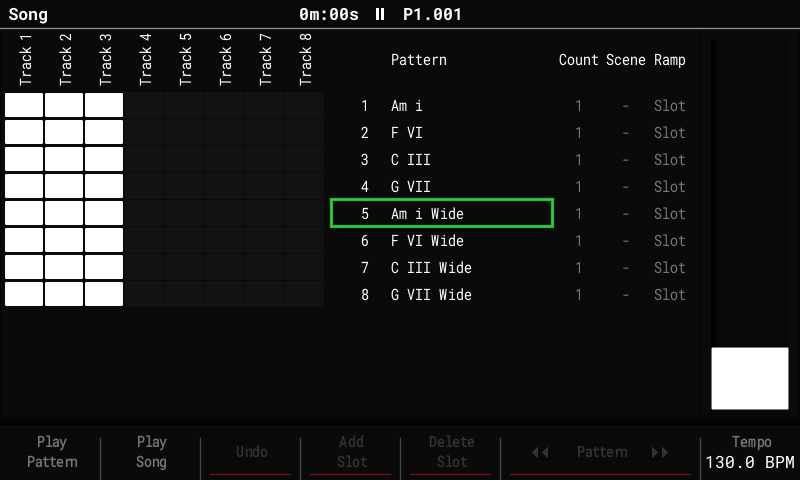
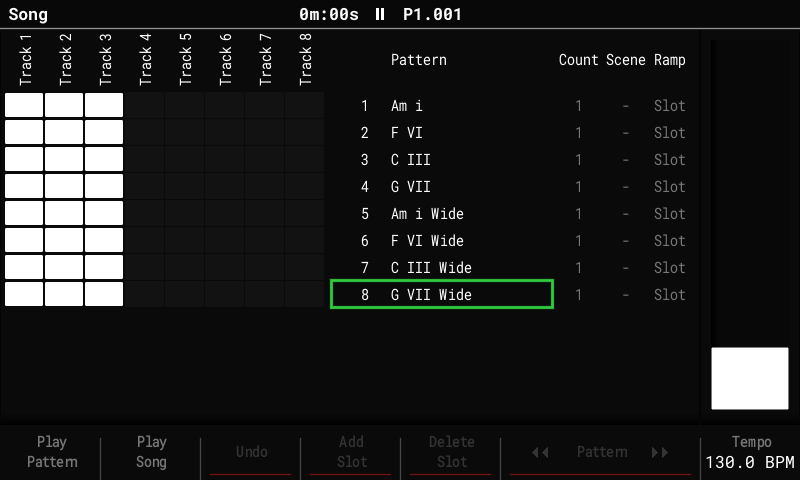
Progressions: F5 Insert Pattern, the progression as one pattern (#123)
In the Progression list, F5 adds one slot playing one pattern named after
its chords ("Am F C G"), a chord on the first step of each bar (the
metronome's bar), to loop or resample and slice. A triad after a 7th stops
the 7th's fourth track. The same progression and voicing reuse their
pattern. F8 / Insert still add a slot per chord; their chord patterns no
longer match an Insert Pattern name ("Am F C G" is not an Am pattern).

Changed region(s): [[0.4062, 0.4062, 0.7188, 0.5], [0.4062, 0.5625, 0.6875, 0.6562], [0.6875, 0.5938, 0.7188, 0.625]]

diff --git a/src/core/app/song_progression.cpp b/src/core/app/song_progression.cpp
@@ -15,11 +15,46 @@ namespace {
 bool nameIsChord(const char* name, const char* chord, uint8_t voicing) {
     const size_t n = std::strlen(chord);
     if (std::strncmp(name, chord, n) != 0 || (name[n] != 0 && name[n] != ' ')) return false;
+    // [I] #123 the next word is a numeral ("F VI") or the voicing's, never
+    // another chord: "Am F C G" (Insert Pattern) is no Am pattern.
+    if (name[n] == ' ') {
+        const char* w = name + n + 1;
+        const char* e = std::strchr(w, ' ');
+        const size_t wl = e ? size_t(e - w) : std::strlen(w);
+        bool voicingWord = false;
+        for (uint8_t v = 1; v < prog::kVoicingCount; ++v) {
+            const char* vw = prog::voicingWord(v);
+            voicingWord = voicingWord || (std::strlen(vw) == wl && std::strncmp(w, vw, wl) == 0);
+        }
+        const char c = w[0] == 'b' || w[0] == '#' ? w[1] : w[0];
+        if (!voicingWord && c != 'i' && c != 'v' && c != 'I' && c != 'V') return false;
+    }
     const char* last = std::strrchr(name, ' ');
     last = last && last >= name + n ? last + 1 : "";
     for (uint8_t v = 1; v < prog::kVoicingCount; ++v)
         if (std::strcmp(last, prog::voicingWord(v)) == 0) return v == voicing;
     return voicing == prog::kSmooth;
+}
+
+// Slots first.. play num[0..n) (the slot at `first` itself when `replace`);
+// the song after them moves down.
+void placeSlots(Project& pr, int len, int first, bool replace, const uint8_t* num, int n) {
+    const int shift = n - (replace ? 1 : 0);
+    for (int s = len - 1; s >= first + (replace ? 1 : 0); --s) {
+        const int d = s + shift;
+        pr.playlist[d] = pr.playlist[s];
+        pr.playlistCount[d] = pr.playlistCount[s];
+        pr.playlistScene[d] = pr.playlistScene[s];
+        pr.playlistSceneTo[d] = pr.playlistSceneTo[s];
+        pr.playlistRamp[d] = pr.playlistRamp[s];
+    }
+    for (int i = 0; i < n; ++i) {
+        pr.playlist[first + i] = num[i];
+        pr.playlistCount[first + i] = 0;
+        pr.playlistScene[first + i] = 0;
+        pr.playlistSceneTo[first + i] = 0;
+        pr.playlistRamp[first + i] = 0;
+    }
 }
 }  // namespace
 
@@ -113,23 +148,88 @@ int App::insertProgression(const prog::Progression& p, int after, const char** w
         if (n == patternNumber()) reloadCurrentFromStore();
     }
     markNamesDirty();
-    // The slots: the song after `first` moves down by the progression.
-    const int shift = p.count - (replace ? 1 : 0);
-    for (int s = len - 1; s >= first + (replace ? 1 : 0); --s) {
-        const int d = s + shift;
-        pr.playlist[d] = pr.playlist[s];
-        pr.playlistCount[d] = pr.playlistCount[s];
-        pr.playlistScene[d] = pr.playlistScene[s];
-        pr.playlistSceneTo[d] = pr.playlistSceneTo[s];
-        pr.playlistRamp[d] = pr.playlistRamp[s];
+    placeSlots(pr, len, first, replace, num, p.count);
+    markProjectDirty();
+    return first;
+}
+
+
+// [I] #123 Into: Pattern - the whole progression in one pattern, a chord per
+// bar, to play as a loop or resample and slice (Slices: Step hits).
+int App::insertProgressionPattern(const prog::Progression& p, int after, const char** why, uint8_t voicing) {
+    static const char* sink;
+    if (!why) why = &sink;
+    *why = nullptr;
+    if (p.count == 0) return -1;
+    commitCurrentPattern();
+    Project& pr = project;
+    int len = 0;
+    while (len < kSongSlots && pr.playlist[len]) ++len;
+    if (len == 0) pr.playlist[len++] = 1;
+    after = after < 0 ? 0 : after >= len ? len - 1 : after;
+    const int src = pr.playlist[after];
+    const bool replace = !patternHasData(src) && !names.get(src)[0];
+    const int first = replace ? after : after + 1;
+    if (!replace && len + 1 > kSongSlots) {
+        *why = "Song is full";
+        return -1;
     }
+    uint8_t scale = pr.u8(pf::kScale);
+    if (scale >= kScaleCount) scale = 0;
+    const prog::Tonic tonic = prog::tonic(p, pr.u8(pf::kRootNote), scale);
+    // The name: the chords, then the voicing's word ("Am F C G Wide").
+    char label[PatternNames::kMaxLen + 1];
+    int o = 0;
     for (int i = 0; i < p.count; ++i) {
-        pr.playlist[first + i] = num[i];
-        pr.playlistCount[first + i] = 0;
-        pr.playlistScene[first + i] = 0;
-        pr.playlistSceneTo[first + i] = 0;
-        pr.playlistRamp[first + i] = 0;
+        char c[16];
+        prog::chordName(p, i, tonic, c, sizeof(c));
+        o += std::snprintf(label + o, sizeof(label) - size_t(o), "%s%s", i ? " " : "", c);
+        if (o >= int(sizeof(label))) o = int(sizeof(label)) - 1;
     }
+    const char* word = prog::voicingWord(voicing);
+    if (word[0]) std::snprintf(label + o, sizeof(label) - size_t(o), " %s", word);
+    // The same progression and voicing made before: its pattern again.
+    uint8_t num = 0;
+    for (int n = 1; n <= kPatternCount && !num; ++n)
+        if (std::strcmp(names.get(n), label) == 0) num = uint8_t(n);
+    if (!num) {
+        for (int n = 1; n <= kPatternCount && !num; ++n) {
+            if (patternHasData(n) || names.get(n)[0]) continue;
+            bool used = false;
+            for (int s = 0; s < len && !used; ++s) used = pr.playlist[s] == n && !(replace && s == after);
+            if (!used) num = uint8_t(n);
+        }
+        if (!num) {
+            *why = "No empty patterns";
+            return -1;
+        }
+        // A bar per chord (the metronome's), halved until the pattern fits.
+        int bar = resampleBarSteps();
+        while (bar > 1 && bar * p.count > kStepCount) bar /= 2;
+        defaultStored(num);
+        PatternStock& st = storedStock(num);
+        for (int t = 0; t < kStockTrackCount; ++t) st.tracks[t].lastStep = uint8_t(bar * p.count - 1);
+        const uint8_t ins = currentInstrument();
+        int prev[prog::kMaxVoiced], prevCount = 0;
+        for (int i = 0; i < p.count; ++i) {
+            int notes[prog::kMaxVoiced];
+            const int k = prog::voice(p, i, tonic, voicing, prev, prevCount, notes);
+            for (int j = 0; j < k; ++j) {
+                Step& s = st.tracks[j].steps[i * bar];
+                s.note = int8_t(notes[j]);
+                s.instrument = pops::mapInstrument(j, ins);
+                prev[j] = notes[j];
+            }
+            // A track the chord before used and this one doesn't: stop it.
+            for (int j = k; j < prevCount && j < kStockTrackCount; ++j) st.tracks[j].steps[i * bar].note = kNoteOff;
+            prevCount = k;
+        }
+        markPatternDirty(num);
+        names.set(num, label);
+        markNamesDirty();
+        if (num == patternNumber()) reloadCurrentFromStore();
+    }
+    placeSlots(pr, len, first, replace, &num, 1);
     markProjectDirty();
     return first;
 }

diff --git a/tests/progression_test.cpp b/tests/progression_test.cpp
@@ -416,6 +416,53 @@ TEST(progression_insert_names_patterns) {
     CHECK_EQ(a.project.playlist[4], 3);
 }
 
+// [I] #123 Insert Pattern: the whole progression in one pattern, a chord per
+// bar, named after its chords.
+TEST(progression_insert_pattern) {
+    Harness h;
+    App& a = *h.app;
+    setKey(a, kRootA, kMinor);
+    a.setCurrentInstrument(0);
+    prog::Progression p;
+    CHECK(prog::parse("i VI III VII", p));
+    const char* why = nullptr;
+    // New project: the empty pattern 1 in slot 1 is filled.
+    CHECK_EQ(a.insertProgressionPattern(p, 0, &why), 0);
+    CHECK_EQ(a.project.playlist[0], 1);
+    CHECK_EQ(a.project.playlist[1], 0);
+    CHECK_STR(a.names.get(1), "Am F C G");
+    const PatternStock& st = a.storedStock(1);
+    for (int t = 0; t < kStockTrackCount; ++t) CHECK_EQ(int(st.tracks[t].lastStep), 63);   // 4 bars of 16
+    CHECK_EQ(st.tracks[0].steps[0].note, 57);   // Am: A4 C5 E5, as Insert's
+    CHECK_EQ(st.tracks[1].steps[0].note, 60);
+    CHECK_EQ(st.tracks[2].steps[0].note, 64);
+    CHECK_EQ(st.tracks[0].steps[0].instrument, 0);
+    for (int b = 1; b < 4; ++b)
+        for (int t = 0; t < 3; ++t) CHECK(st.tracks[t].steps[b * 16].note >= 0);
+    CHECK_EQ(st.tracks[0].steps[1].note, kNoteEmpty);   // held to the next bar
+    CHECK_EQ(st.tracks[3].steps[16].note, kNoteEmpty);
+    // The same progression again: the same pattern in a new slot.
+    CHECK_EQ(a.insertProgressionPattern(p, 0, &why), 1);
+    CHECK_EQ(a.project.playlist[1], 1);
+    CHECK(!a.patternHasData(2));
+    // Another voicing is another pattern.
+    CHECK_EQ(a.insertProgressionPattern(p, 1, &why, prog::kWide), 2);
+    CHECK_EQ(a.project.playlist[2], 2);
+    CHECK_STR(a.names.get(2), "Am F C G Wide");
+    // A triad after a 7th stops the 7th's fourth track.
+    CHECK(prog::parse("i7 VI", p));
+    CHECK_EQ(a.insertProgressionPattern(p, 2, &why), 3);
+    const int n = a.project.playlist[3];
+    CHECK_STR(a.names.get(n), "Am7 F");
+    CHECK(a.storedStock(n).tracks[3].steps[0].note >= 0);
+    CHECK_EQ(a.storedStock(n).tracks[3].steps[16].note, kNoteOff);
+    CHECK_EQ(int(a.storedStock(n).tracks[0].lastStep), 31);
+    // Eight chords fill the longest pattern.
+    CHECK(prog::parse("i VI III VII i VI III VII", p));
+    CHECK_EQ(a.insertProgressionPattern(p, 3, &why), 4);
+    CHECK_EQ(int(a.storedStock(a.project.playlist[4]).tracks[0].lastStep), 127);
+}
+
 TEST(progression_insert_refuses_when_full) {
     Harness h;
     App& a = *h.app;
@@ -570,6 +617,30 @@ TEST(progression_insert_voicing_names) {
     CHECK(a.storedStock(a.project.playlist[17]).tracks[4].steps[0].note >= 0);   // 5 tracks
     CHECK_EQ(a.insertProgression(p, 17, &why), 18);
     CHECK_EQ(a.project.playlist[18], 20);
+}
+
+// [I] #123 F5 Insert Pattern in the Progression list.
+TEST(progression_song_screen_insert_pattern) {
+    Harness h;
+    App& a = *h.app;
+    setKey(a, kRootA, kMinor);
+    h.tap(btn::Song);
+    SongScreen& s = song(h);
+    h.tap(btn::Rec);
+    h.tap(btn::Insert);
+    h.run(50);
+    CHECK(h.disp.lastHasText("Pattern"));
+    h.tap(btn::F5);
+    CHECK(!s.progOpen);
+    CHECK_EQ(a.project.playlist[0], 1);
+    CHECK_EQ(a.project.playlist[1], 0);
+    CHECK_STR(a.names.get(1), "Am F C G");
+    CHECK_EQ(s.cursor, 0);
+    // F8 still adds a slot per chord.
+    h.tap(btn::Insert);
+    h.tap(btn::F8);
+    CHECK_EQ(a.project.playlist[4], 5);
+    CHECK_STR(a.names.get(2), "Am i");
 }
 
 TEST(progression_song_screen_voicing_key) {

diff --git a/src/core/ui/screen_song.cpp b/src/core/ui/screen_song.cpp
@@ -228,6 +228,7 @@ void SongScreen::refreshBar() {
     BottomBar& b = ui_.bar;
     b.clear();
     if (progOpen) {   // [I] #121
+        b.set(4, "Insert", "Pattern");   // [I] #123 the progression as one pattern
         b.set(5, "Voicing", prog::voicingName(progVoicing));
         b.set(6, "Cancel", nullptr);
         b.set(7, "Insert", nullptr);
@@ -463,6 +464,7 @@ void SongScreen::onButton(uint8_t id, uint8_t state) {
         switch (id) {
             case btn::Up: progMove(-1); break;
             case btn::Down: progMove(1); break;
+            case btn::F5: insertSelectedProgression(true); break;
             case btn::F6: nextVoicing(); break;
             case btn::F8:
             case btn::Insert: insertSelectedProgression(); break;
@@ -786,21 +788,27 @@ void SongScreen::nextVoicing() {
     ui_.notify(t, 2500);
 }
 
-void SongScreen::insertSelectedProgression() {
+void SongScreen::insertSelectedProgression(bool asPattern) {
     if (progCursor < 0 || progCursor >= progRows || g_progRow[progCursor] < 0) return;
     prog::Progression p;
     if (!prog::parse(g_progs.line[g_progRow[progCursor]], p)) return;
     const char* why = nullptr;
-    const int first = app_.insertProgression(p, cursor, &why, progVoicing);
+    const int first = asPattern ? app_.insertProgressionPattern(p, cursor, &why, progVoicing)
+                                      : app_.insertProgression(p, cursor, &why, progVoicing);
     if (first < 0) {
         ui_.notify(why ? why : "Progression not added");
         return;
     }
     progOpen = false;
-    cursor = first + p.count - 1;   // the next Insert follows the progression
     focus = 1;
     char t[48];
-    std::snprintf(t, sizeof(t), "Progression added: %d slots", p.count);
+    if (asPattern) {
+        cursor = first;
+        std::snprintf(t, sizeof(t), "Progression added: 1 pattern, %d bars", p.count);
+    } else {
+        cursor = first + p.count - 1;   // the next Insert follows the progression
+        std::snprintf(t, sizeof(t), "Progression added: %d slots", p.count);
+    }
     ui_.notify(t, 1500);
 }
 

diff --git a/src/core/app/app.h b/src/core/app/app.h
@@ -546,6 +546,11 @@ public:
     // when the song or the patterns are full (*why says which; nothing changed).
     int insertProgression(const prog::Progression& p, int after, const char** why,
                           uint8_t voicing = 0);   // prog::Voicing, 0 = Smooth
+    // [I] #123 Into: Pattern: the progression as one pattern (a chord per bar,
+    // named after its chords) in one slot after `after`; a pattern of the same
+    // name is reused. Returns the slot, -1 with *why when nothing changed.
+    int insertProgressionPattern(const prog::Progression& p, int after, const char** why,
+                                 uint8_t voicing = 0);
     bool savePerfBank(const char* name, const perf::Source& src);
     // Load Patch popup preview (Tracker+ 1.0; docs/SYNTH_UX_MINI_VS_OT.md
     // row 24): Patches/<MODEL>/<name>.patch plays in slot s (its patch and

diff --git a/src/core/ui/screens.h b/src/core/ui/screens.h
@@ -244,7 +244,7 @@ public:
     int progRows = 0, progCursor = 0, progTop = 0;
     uint8_t progVoicing = 0;   // F6 (prog::Voicing), kept until power-off
     void openProgressions();
-    void insertSelectedProgression();
+    void insertSelectedProgression(bool asPattern = false);   // [I] #123 F5: one pattern
 
 private:
     void refreshBar();

diff --git a/docs/guide/song-mode.md b/docs/guide/song-mode.md
@@ -75,7 +75,8 @@ or change the voicing.
 - The Pattern list shows each pattern's name, so the song reads as its chords.
 - The list shows each progression's chords in the project key, with its numbers (or its
   title) on the right, under a heading per file. **Up / Down** or the encoder pick one,
-  **F8** or **Insert** adds it, **F7** or **Left** closes the list.
+  **F8** or **Insert** adds it as a slot per chord, **F5** as one pattern (below), **F7** or
+  **Left** closes the list.
 - A chord that already has a pattern named after it reuses that pattern (only the name's
   first word is checked, so a pattern you called `F` counts as F). A chord that comes twice
   in a progression gets one pattern.
@@ -110,6 +111,27 @@ shows the first two chords' notes, for example `Smooth: Am A4 C5 E5 > F A4 C5 F5
 - The choice stays until the Tracker is switched off.
 - A reused pattern keeps its notes: a chord that comes twice is one pattern, voiced the
   first time. To change a single chord's shape, open its pattern and move the notes.
+
+### One pattern to resample
+
+**F5 Insert Pattern** adds the progression as a single pattern instead: one slot playing a
+pattern named after its chords (`Am F C G`), with a chord on the first step of each bar
+(16 steps in 4/4), so four chords make a 64-step pattern and eight fill 128. Voicing works
+the same (`Am F C G Wide`), and the same progression in the same voicing reuses its
+pattern.
+
+![Insert Pattern: the four chords in one pattern, a bar each](../images/song-progression-pattern.png)
+
+That pattern is made to be resampled and chopped, the way a sampled record is flipped:
+
+1. Play it with the sound you want, then resample it from Master for as many bars as it
+   has chords (see [Resampling](resampling.md)), with **Slices** on.
+2. The take is a Beat Slice instrument with a slice per chord: pad 1 plays the first chord,
+   pad 2 the second, each at its own pitch.
+3. Put the slices in a new order, cut them short, or play them with the Performance FX.
+
+To play one chord at other pitches instead (a chord stab), set the instrument to **Slice**,
+pick the chord with the Slice FX and play it from the pads.
 
 ### The progression files
 
